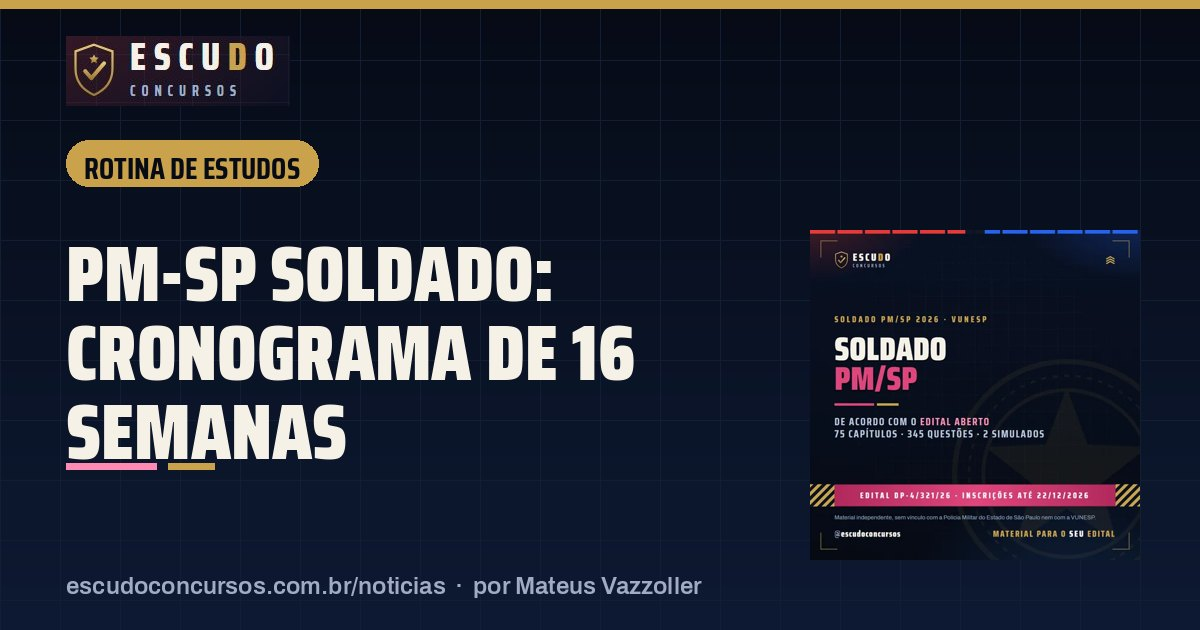
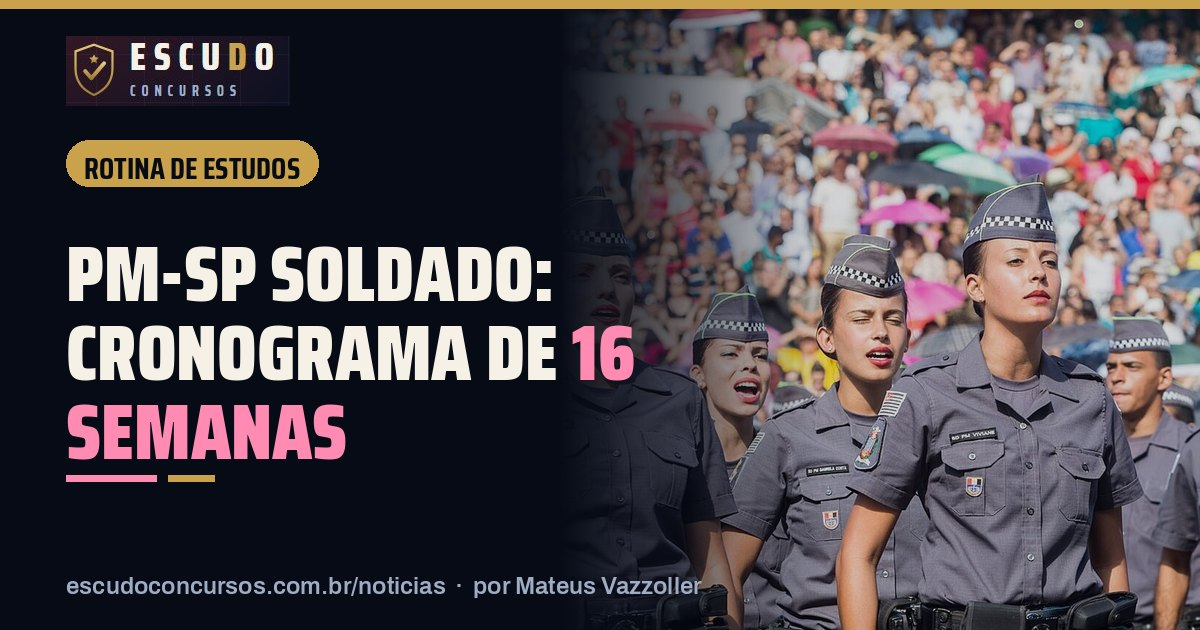
Blog: fotos com licença livre na capa e no texto, com crédito
Claude-Session: https://claude.ai/code/session_01G9HQrGRPnrLsb67KsxRRNz

diff --git a/noticias/pm-sp-soldado-inscricoes-abrem-09-11/index.html b/noticias/pm-sp-soldado-inscricoes-abrem-09-11/index.html
@@ -56,7 +56,9 @@
   .blog-fontes ul{margin:0;padding-left:1.2em}
   .blog-capa{margin:0 0 22px}
   .blog-capa img{width:100%;height:auto;border-radius:12px;display:block}
-  .blog-capa figcaption{font-size:.85rem;color:var(--ink2);margin-top:6px}
+  .blog-capa figcaption,.blog-foto figcaption{font-size:.8rem;color:var(--ink2,#5a6478);margin-top:6px;line-height:1.4}
+  .blog-foto{margin:26px 0}
+  .blog-foto img{width:100%;height:auto;border-radius:10px;display:block}
   .blog-resumo table{min-width:0}
   .blog-resumo th{width:38%}
   .blog-sumario{margin:18px 0;padding:12px 18px;background:#fff;border:1px solid #E6DFCC;border-radius:10px}
@@ -188,7 +190,7 @@
       <nav class="guia-trilha" aria-label="Você está em"><a href="../../">Início</a> <span aria-hidden="true">›</span> <a href="../">Notícias e dicas</a> <span aria-hidden="true">›</span> <a href="../editais/">Notícia</a></nav>
       <h1>PM-SP Soldado 2026: inscrições abrem 09/11 e o prazo da isenção é só até 11/11</h1>
       <p class="guia-data"><span class="blog-selo">Notícia</span>Publicado em 8 de novembro de 2026 · por <a href="../../quem-faz/">Mateus Vazzoller</a>, ESCUDO Concursos</p>
-<figure class="blog-capa"><img src="capa.jpg" alt="Notícia: PM-SP Soldado 2026: inscrições abrem 09/11 e o prazo da isenção é só até 11/11" width="1200" height="630"></figure><p>As inscrições do concurso da Polícia Militar do Estado de São Paulo para <strong>Aluno-Soldado PM</strong> abrem às <strong>10h de segunda-feira, 09/11/2026</strong>, e vão até as <strong>23h59 de 22/12/2026</strong>, só pelo site da Fundação VUNESP. São <strong>2.000 cargos</strong>, com remuneração básica inicial de <strong>R$ 5.482,51</strong>, segundo o Edital nº DP-4/321/26.</p>
+<figure class="blog-capa"><img src="capa.jpg" alt="Notícia: PM-SP Soldado 2026: inscrições abrem 09/11 e o prazo da isenção é só até 11/11" width="1200" height="630"><figcaption>Formatura de soldados da PM-SP no Anhembi, em São Paulo. Foto: Diogo Moreira/Governo do Estado de São Paulo (<a href="https://commons.wikimedia.org/wiki/File:Policiais_Militares_SP.jpg" rel="nofollow noopener" target="_blank">CC BY 2.0, via Wikimedia Commons</a>). Imagem recortada e com texto sobreposto.</figcaption></figure><p>As inscrições do concurso da Polícia Militar do Estado de São Paulo para <strong>Aluno-Soldado PM</strong> abrem às <strong>10h de segunda-feira, 09/11/2026</strong>, e vão até as <strong>23h59 de 22/12/2026</strong>, só pelo site da Fundação VUNESP. São <strong>2.000 cargos</strong>, com remuneração básica inicial de <strong>R$ 5.482,51</strong>, segundo o Edital nº DP-4/321/26.</p>
 <div class="guia-tabela blog-resumo"><table><tbody><tr><th>Cargo</th><td>Aluno-Soldado PM (Quadro de Praças)</td></tr><tr><th>Vagas</th><td>2.000</td></tr><tr><th>Salário inicial</th><td>R$ 5.482,51</td></tr><tr><th>Banca</th><td>Fundação VUNESP</td></tr><tr><th>Escolaridade</th><td>Ensino médio (exigido na posse)</td></tr><tr><th>Inscrições</th><td>09/11 a 22/12/2026, em www.vunesp.com.br</td></tr><tr><th>Isenção ou redução da taxa</th><td>09/11 a 11/11/2026</td></tr><tr><th>Taxa</th><td>R$ 110,00</td></tr><tr><th>Prova (prevista)</th><td>28/02/2027, à tarde</td></tr></tbody></table></div><nav class="blog-sumario" aria-label="Neste texto"><strong>Neste texto</strong><ol><li><a href="#o-prazo-que-vence-primeiro-e-o-da-isencao">O prazo que vence primeiro é o da isenção</a></li><li><a href="#quem-pode-se-inscrever">Quem pode se inscrever</a></li><li><a href="#escolha-do-local-de-prova">Escolha do local de prova</a></li><li><a href="#datas-principais">Datas principais</a></li></ol></nav>
 <h2 id="o-prazo-que-vence-primeiro-e-o-da-isencao">O prazo que vence primeiro é o da isenção</h2>
 <p>O pedido de isenção ou redução da taxa tem janela de apenas três dias: das <strong>14h de 09/11</strong> às <strong>23h59 de 11/11/2026</strong>. O edital prevê:</p>
@@ -197,6 +199,7 @@
 <li><strong>redução de 50%</strong> para estudante com renda inferior a 2 salários mínimos ou desempregado.</li>
 </ul>
 <p>Quem perder essa janela paga a taxa cheia de R$ 110,00. O pagamento vai até o primeiro dia útil seguinte ao fim das inscrições.</p>
+<figure class="blog-foto"><img src="foto-2.jpg" alt="Soldadas e soldados da PM-SP em formatura no Sambódromo do Anhembi" width="1200" height="800" loading="lazy"><figcaption>Soldadas e soldados da PM-SP na formatura no Sambódromo do Anhembi. Foto: Du Amorim/A2 Fotografia/Governo do Estado de São Paulo (<a href="https://commons.wikimedia.org/wiki/File:Mulheres_da_PMESP.jpg" rel="nofollow noopener" target="_blank">CC BY 2.0, via Wikimedia Commons</a>)</figcaption></figure>
 <h2 id="quem-pode-se-inscrever">Quem pode se inscrever</h2>
 <p>O edital pede, na inscrição, nacionalidade brasileira, idade entre 17 e 30 anos (contada no período de inscrição), estatura mínima de 160 cm para homens e 155 cm para mulheres e o pagamento da taxa. Ensino médio completo, CNH de categoria B a E e os demais requisitos são exigidos só na posse.</p>
 <h2 id="escolha-do-local-de-prova">Escolha do local de prova</h2>

diff --git a/noticias/pm-sp-soldado-cronograma-de-estudos-16-semanas/index.html b/noticias/pm-sp-soldado-cronograma-de-estudos-16-semanas/index.html
@@ -56,7 +56,9 @@
   .blog-fontes ul{margin:0;padding-left:1.2em}
   .blog-capa{margin:0 0 22px}
   .blog-capa img{width:100%;height:auto;border-radius:12px;display:block}
-  .blog-capa figcaption{font-size:.85rem;color:var(--ink2);margin-top:6px}
+  .blog-capa figcaption,.blog-foto figcaption{font-size:.8rem;color:var(--ink2,#5a6478);margin-top:6px;line-height:1.4}
+  .blog-foto{margin:26px 0}
+  .blog-foto img{width:100%;height:auto;border-radius:10px;display:block}
   .blog-resumo table{min-width:0}
   .blog-resumo th{width:38%}
   .blog-sumario{margin:18px 0;padding:12px 18px;background:#fff;border:1px solid #E6DFCC;border-radius:10px}
@@ -188,7 +190,7 @@
       <nav class="guia-trilha" aria-label="Você está em"><a href="../../">Início</a> <span aria-hidden="true">›</span> <a href="../">Notícias e dicas</a> <span aria-hidden="true">›</span> <a href="../rotina-de-estudos/">Rotina de estudos</a></nav>
       <h1>Cronograma de estudos para PM-SP Soldado: 16 semanas até a prova de 28/02/2027</h1>
       <p class="guia-data"><span class="blog-selo">Rotina de estudos</span>Publicado em 8 de novembro de 2026 · por <a href="../../quem-faz/">Mateus Vazzoller</a>, ESCUDO Concursos</p>
-<figure class="blog-capa"><img src="capa.jpg" alt="Rotina de estudos: Cronograma de estudos para PM-SP Soldado: 16 semanas até a prova de 28/02/2027" width="1200" height="630"></figure><p>Entre segunda-feira, 09/11/2026, e a prova prevista para <strong>28/02/2027</strong> há <strong>16 semanas</strong>. Este plano reparte 15 horas por semana entre as matérias na proporção das questões do edital e divide o tempo em três fases: base, questões e simulados.</p>
+<figure class="blog-capa"><img src="capa.jpg" alt="Rotina de estudos: Cronograma de estudos para PM-SP Soldado: 16 semanas até a prova de 28/02/2027" width="1200" height="630"><figcaption>Soldadas e soldados da PM-SP na formatura no Sambódromo do Anhembi. Foto: Du Amorim/A2 Fotografia/Governo do Estado de São Paulo (<a href="https://commons.wikimedia.org/wiki/File:Mulheres_da_PMESP.jpg" rel="nofollow noopener" target="_blank">CC BY 2.0, via Wikimedia Commons</a>). Imagem recortada e com texto sobreposto.</figcaption></figure><p>Entre segunda-feira, 09/11/2026, e a prova prevista para <strong>28/02/2027</strong> há <strong>16 semanas</strong>. Este plano reparte 15 horas por semana entre as matérias na proporção das questões do edital e divide o tempo em três fases: base, questões e simulados.</p>
 <div class="guia-tabela blog-resumo"><table><tbody><tr><th>Prova (prevista)</th><td>28/02/2027, à tarde, 5 horas</td></tr><tr><th>Tempo até a prova</th><td>16 semanas a partir de 09/11/2026</td></tr><tr><th>Carga sugerida</th><td>15 horas por semana</td></tr><tr><th>Fases</th><td>Base (semanas 1 a 8), questões (9 a 13), simulados (14 a 16)</td></tr><tr><th>Prova objetiva</th><td>60 questões, mínimo de 30 pontos</td></tr><tr><th>Redação</th><td>Até 30 linhas, 40 pontos, mínimo de 20</td></tr></tbody></table></div><nav class="blog-sumario" aria-label="Neste texto"><strong>Neste texto</strong><ol><li><a href="#de-onde-vem-as-horas">De onde vêm as horas</a></li><li><a href="#fase-1-base-semanas-1-a-8-de-09112026-a-03012027">Fase 1: base (semanas 1 a 8, de 09/11/2026 a 03/01/2027)</a></li><li><a href="#fase-2-questoes-semanas-9-a-13-de-0401-a-07022027">Fase 2: questões (semanas 9 a 13, de 04/01 a 07/02/2027)</a></li><li><a href="#fase-3-simulados-semanas-14-a-16-de-0802-a-28022027">Fase 3: simulados (semanas 14 a 16, de 08/02 a 28/02/2027)</a></li><li><a href="#se-voce-tem-menos-tempo">Se você tem menos tempo</a></li></ol></nav>
 <h2 id="de-onde-vem-as-horas">De onde vêm as horas</h2>
 <p>A prova objetiva tem 60 questões, cada uma valendo 1 ponto, e a redação vale 40 pontos. O tempo semanal segue esse peso:</p>
@@ -239,6 +241,7 @@
 </tbody>
 </table></div>
 <p>Administração Pública ganha meia hora a mais que Informática porque cobra artigo de lei (Constituição Federal, Constituição do Estado, Lei de Acesso à Informação e Decreto estadual nº 68.155/2023), que pede leitura atenta do texto.</p>
+<figure class="blog-foto"><img src="foto-2.jpg" alt="Soldados da PM-SP em formatura no Anhembi, em São Paulo" width="1200" height="800" loading="lazy"><figcaption>Formatura de soldados da PM-SP no Anhembi, em São Paulo. Foto: Diogo Moreira/Governo do Estado de São Paulo (<a href="https://commons.wikimedia.org/wiki/File:Policiais_Militares_SP.jpg" rel="nofollow noopener" target="_blank">CC BY 2.0, via Wikimedia Commons</a>)</figcaption></figure>
 <h2 id="fase-1-base-semanas-1-a-8-de-09112026-a-03012027">Fase 1: base (semanas 1 a 8, de 09/11/2026 a 03/01/2027)</h2>
 <ul>
 <li>Comece por Português e Matemática, que somam 35 das 60 questões e garantem os 30 pontos mínimos da objetiva.</li>

diff --git a/_config/blog.modelo.html b/_config/blog.modelo.html
@@ -54,7 +54,9 @@
   .blog-fontes ul{margin:0;padding-left:1.2em}
   .blog-capa{margin:0 0 22px}
   .blog-capa img{width:100%;height:auto;border-radius:12px;display:block}
-  .blog-capa figcaption{font-size:.85rem;color:var(--ink2);margin-top:6px}
+  .blog-capa figcaption,.blog-foto figcaption{font-size:.8rem;color:var(--ink2,#5a6478);margin-top:6px;line-height:1.4}
+  .blog-foto{margin:26px 0}
+  .blog-foto img{width:100%;height:auto;border-radius:10px;display:block}
   .blog-resumo table{min-width:0}
   .blog-resumo th{width:38%}
   .blog-sumario{margin:18px 0;padding:12px 18px;background:#fff;border:1px solid #E6DFCC;border-radius:10px}

diff --git a/noticias/editais/index.html b/noticias/editais/index.html
@@ -54,7 +54,9 @@
   .blog-fontes ul{margin:0;padding-left:1.2em}
   .blog-capa{margin:0 0 22px}
   .blog-capa img{width:100%;height:auto;border-radius:12px;display:block}
-  .blog-capa figcaption{font-size:.85rem;color:var(--ink2);margin-top:6px}
+  .blog-capa figcaption,.blog-foto figcaption{font-size:.8rem;color:var(--ink2,#5a6478);margin-top:6px;line-height:1.4}
+  .blog-foto{margin:26px 0}
+  .blog-foto img{width:100%;height:auto;border-radius:10px;display:block}
   .blog-resumo table{min-width:0}
   .blog-resumo th{width:38%}
   .blog-sumario{margin:18px 0;padding:12px 18px;background:#fff;border:1px solid #E6DFCC;border-radius:10px}

diff --git a/noticias/index.html b/noticias/index.html
@@ -54,7 +54,9 @@
   .blog-fontes ul{margin:0;padding-left:1.2em}
   .blog-capa{margin:0 0 22px}
   .blog-capa img{width:100%;height:auto;border-radius:12px;display:block}
-  .blog-capa figcaption{font-size:.85rem;color:var(--ink2);margin-top:6px}
+  .blog-capa figcaption,.blog-foto figcaption{font-size:.8rem;color:var(--ink2,#5a6478);margin-top:6px;line-height:1.4}
+  .blog-foto{margin:26px 0}
+  .blog-foto img{width:100%;height:auto;border-radius:10px;display:block}
   .blog-resumo table{min-width:0}
   .blog-resumo th{width:38%}
   .blog-sumario{margin:18px 0;padding:12px 18px;background:#fff;border:1px solid #E6DFCC;border-radius:10px}

diff --git a/noticias/o-que-estudar/index.html b/noticias/o-que-estudar/index.html
@@ -54,7 +54,9 @@
   .blog-fontes ul{margin:0;padding-left:1.2em}
   .blog-capa{margin:0 0 22px}
   .blog-capa img{width:100%;height:auto;border-radius:12px;display:block}
-  .blog-capa figcaption{font-size:.85rem;color:var(--ink2);margin-top:6px}
+  .blog-capa figcaption,.blog-foto figcaption{font-size:.8rem;color:var(--ink2,#5a6478);margin-top:6px;line-height:1.4}
+  .blog-foto{margin:26px 0}
+  .blog-foto img{width:100%;height:auto;border-radius:10px;display:block}
   .blog-resumo table{min-width:0}
   .blog-resumo th{width:38%}
   .blog-sumario{margin:18px 0;padding:12px 18px;background:#fff;border:1px solid #E6DFCC;border-radius:10px}

diff --git a/noticias/rotina-de-estudos/index.html b/noticias/rotina-de-estudos/index.html
@@ -54,7 +54,9 @@
   .blog-fontes ul{margin:0;padding-left:1.2em}
   .blog-capa{margin:0 0 22px}
   .blog-capa img{width:100%;height:auto;border-radius:12px;display:block}
-  .blog-capa figcaption{font-size:.85rem;color:var(--ink2);margin-top:6px}
+  .blog-capa figcaption,.blog-foto figcaption{font-size:.8rem;color:var(--ink2,#5a6478);margin-top:6px;line-height:1.4}
+  .blog-foto{margin:26px 0}
+  .blog-foto img{width:100%;height:auto;border-radius:10px;display:block}
   .blog-resumo table{min-width:0}
   .blog-resumo th{width:38%}
   .blog-sumario{margin:18px 0;padding:12px 18px;background:#fff;border:1px solid #E6DFCC;border-radius:10px}

diff --git a/_config/blog_capa.py b/_config/blog_capa.py
@@ -41,21 +41,48 @@ def quebra(draw, texto, f, largura):
     return linhas
 
 
-def gera(destino, titulo, selo, produto_img=None, destaque=None):
+def fundo_foto(im, foto):
+    """Foto ocupando o lado direito, com degradê navy da esquerda para o texto ficar legível."""
+    f = Image.open(foto).convert("RGB")
+    alvo_w, alvo_h = 700, 630
+    esc = max(alvo_w / f.width, alvo_h / f.height)
+    f = f.resize((int(f.width * esc) + 1, int(f.height * esc) + 1), Image.LANCZOS)
+    x0 = (f.width - alvo_w) // 2
+    f = f.crop((x0, 0, x0 + alvo_w, alvo_h))
+    im.paste(f, (1200 - alvo_w, 0))
+    veu = Image.new("RGBA", (1200, 630))
+    dv = ImageDraw.Draw(veu)
+    for x in range(1200):
+        if x < 560:
+            a = 255
+        elif x < 820:
+            a = int(255 - (x - 560) / 260 * 215)
+        else:
+            a = 40
+        dv.line([(x, 0), (x, 630)], fill=NAVY + (min(a, 255),))
+    im.paste(veu, (0, 0), veu)
+
+
+def gera(destino, titulo, selo, produto_img=None, destaque=None, foto=None):
     im = Image.new("RGB", (1200, 630), NAVY)
     d = ImageDraw.Draw(im)
-    # fundo com leve degradê e grade
-    for y in range(630):
+    if foto and pathlib.Path(foto).exists():
+        fundo_foto(im, foto)
+        d = ImageDraw.Draw(im)
+        produto_img = None
+    largura_foto = 640 if foto and pathlib.Path(foto).exists() else None
+    # fundo com leve degradê e grade (só sem foto)
+    for y in (range(630) if not foto else []):
         t = y / 630
         d.line([(0, y), (1200, y)], fill=tuple(int(NAVY[i] + (NAVY2[i] - NAVY[i]) * t) for i in range(3)))
-    for x in range(0, 1200, 60):
+    for x in (range(0, 1200, 60) if not foto else []):
         d.line([(x, 0), (x, 630)], fill=(18, 30, 52))
-    for y in range(0, 630, 60):
+    for y in (range(0, 630, 60) if not foto else []):
         d.line([(0, y), (1200, y)], fill=(18, 30, 52))
     d.rectangle([0, 0, 1200, 8], fill=OURO)
     logo = Image.open(RAIZ / "_config" / "blog-logo.png").convert("RGB")
     im.paste(logo, (66, 36))
-    largura = 1068
+    largura = largura_foto or 1068
     if produto_img and pathlib.Path(produto_img).exists():
         p = Image.open(produto_img).convert("RGBA")
         p.thumbnail((330, 440))
@@ -75,11 +102,14 @@ def gera(destino, titulo, selo, produto_img=None, destaque=None):
             break
     y = 212
     for i, l in enumerate(linhas):
-        cor = ROSA if destaque and destaque.upper() in l else CREME
-        d.text((66, y), l, font=ft, fill=cor)
+        x = 66
+        marcadas = set(destaque.upper().split()) if destaque else set()
+        for pal in l.split():
+            d.text((x, y), pal, font=ft, fill=ROSA if pal.strip(":,.") in marcadas else CREME)
+            x += d.textlength(pal + " ", font=ft)
         y += int(tam * 1.02)
-    d.rectangle([66, y + 14, 156, y + 20], fill=ROSA)
-    d.rectangle([168, y + 14, 214, y + 20], fill=OURO)
+    d.rectangle([66, y + 26, 156, y + 32], fill=ROSA)
+    d.rectangle([168, y + 26, 214, y + 32], fill=OURO)
     fr = fonte("Archivo-SemiBold", 24)
     d.text((66, 572), "escudoconcursos.com.br/noticias  ·  por Mateus Vazzoller", font=fr, fill=CINZA)
     destino = pathlib.Path(destino)

diff --git a/_config/blog.py b/_config/blog.py
@@ -160,6 +160,19 @@ def caixa_curso(p, slug):
         html.escape(p.get("titulo", "")), html.escape(itens), html.escape(oferta), p.get("link", p["id"] + "/"), slug)
 
 
+def credito_html(f, adaptada):
+    """Crédito exigido pela licença livre (CC BY): autor, licença, link e aviso de adaptação."""
+    txt = "Foto: %s" % html.escape(f.get("credito", ""))
+    if f.get("url"):
+        txt += ' (<a href="%s" rel="nofollow noopener" target="_blank">%s, via Wikimedia Commons</a>)' % (
+            html.escape(f["url"], quote=True), html.escape(f.get("licenca", "licença livre")))
+    if f.get("legenda"):
+        txt = html.escape(f["legenda"]) + ". " + txt
+    if adaptada:
+        txt += ". Imagem recortada e com texto sobreposto."
+    return "<figcaption>%s</figcaption>" % txt
+
+
 def fontes_html(fontes):
     if not fontes:
         return ""
@@ -199,9 +212,27 @@ def monta_post(meta, corpo):
     # capa
     from blog_capa import gera
     img_prod = (RAIZ / p["imagem"]) if p and p.get("imagem") else None
-    gera(SAIDA / slug / "capa.jpg", meta.get("capa_titulo") or h1, selo, img_prod, meta.get("capa_destaque"))
+    fotos = meta.get("fotos") or []
+    foto_capa = (RAIZ / "_config" / "blog" / "fotos" / fotos[0]["arquivo"]) if fotos else None
+    gera(SAIDA / slug / "capa.jpg", meta.get("capa_titulo") or h1, selo, img_prod, meta.get("capa_destaque"), foto_capa)
     capa_alt = "%s: %s" % (selo, h1)
-    capa = '<figure class="blog-capa"><img src="capa.jpg" alt="%s" width="1200" height="630"></figure>' % html.escape(capa_alt, quote=True)
+    capa = '<figure class="blog-capa"><img src="capa.jpg" alt="%s" width="1200" height="630">%s</figure>' % (
+        html.escape(capa_alt, quote=True), credito_html(fotos[0], True) if fotos else "")
+    # demais fotos: antes do 2º, 3º... H2
+    for n, f in enumerate(fotos[1:], start=2):
+        src = RAIZ / "_config" / "blog" / "fotos" / f["arquivo"]
+        if not src.exists():
+            continue
+        from PIL import Image
+        im = Image.open(src).convert("RGB")
+        im.thumbnail((1200, 1200))
+        nome = "foto-%d.jpg" % n
+        im.save(SAIDA / slug / nome, "JPEG", quality=82, optimize=True, progressive=True)
+        fig = '<figure class="blog-foto"><img src="%s" alt="%s" width="%d" height="%d" loading="lazy">%s</figure>\n' % (
+            nome, html.escape(f.get("alt", ""), quote=True), im.width, im.height, credito_html(f, False))
+        pos = [m.start() for m in re.finditer(r"<h2", artigo)]
+        if len(pos) >= n:
+            artigo = artigo[:pos[n - 1]] + fig + artigo[pos[n - 1]:]
     # aviso de prazo vencido
     aviso = ""
     va = str(meta.get("valido_ate", ""))

diff --git a/_config/ROTINA-BLOG.md b/_config/ROTINA-BLOG.md
@@ -31,6 +31,7 @@ Responder e escrever sempre em português do Brasil, sem travessão. Horários s
    - Fechar com "## Perguntas frequentes" (3 perguntas em H3, resposta de 1 a 3 frases): vira FAQPage no schema.
    - Capa: `capa_titulo` até ~45 caracteres e `capa_destaque` com o trecho que fica em rosa (data, número).
    - `valido_ate` = data em que o post perde a validade (fim de inscrição, prova): depois dela a página mostra aviso de prazo encerrado.
+   - Fotos (campo `fotos`, lista JSON; a 1ª vai para a capa, as outras antes do 2º, 3º... H2): só de licença livre do Wikimedia Commons (CC BY, CC BY-SA, CC0 ou domínio público), de preferência as do Governo do estado vindas do Flickr oficial. Baixar a miniatura de 1280px de `upload.wikimedia.org` com User-Agent `EscudoBlogBot/1.0 (https://escudoconcursos.com.br)` e calma entre pedidos (o Commons devolve 429), salvar em `_config/blog/fotos/` e preencher arquivo, credito, licenca, url (página do arquivo no Commons), alt e legenda (sem números, que o conferidor não cobre). Nunca foto de portal, banca, Google Imagens ou rede social; nunca político em destaque, protesto, ocorrência ou pessoa em situação constrangedora: só formatura, desfile, viatura, treinamento. Sem foto boa = post sem foto (a capa sai no padrão).
    - Link do documento oficial sempre em `fontes`. No máximo 2 chamadas para o curso (a caixa automática e uma no texto).
    - Sem promessa de aprovação, sem "imperdível", sem emoji, sem afirmação genérica sem fonte.
 6. Revisão: reler o post contra a fonte como um revisor exigente (afirmação sem base, data errada, frase parecida com portal, português). Corrigir.

diff --git a/_config/blog/2026-11-08-pmesp-inscricoes-abrem-09-11.md b/_config/blog/2026-11-08-pmesp-inscricoes-abrem-09-11.md
@@ -9,6 +9,7 @@ atualizado_em: 2026-11-08
 curso_id: pmesp-soldado-2026
 guia: concurso-pm-sp
 capa_titulo: "PM-SP Soldado: inscrições abrem 09/11"
+fotos: [{"arquivo": "pmesp-formatura-soldados-2014.jpg", "credito": "Diogo Moreira/Governo do Estado de São Paulo", "licenca": "CC BY 2.0", "url": "https://commons.wikimedia.org/wiki/File:Policiais_Militares_SP.jpg", "alt": "Soldados da PM-SP em formatura no Anhembi, em São Paulo", "legenda": "Formatura de soldados da PM-SP no Anhembi, em São Paulo"}, {"arquivo": "pmesp-formatura-soldados-2015.jpg", "credito": "Du Amorim/A2 Fotografia/Governo do Estado de São Paulo", "licenca": "CC BY 2.0", "url": "https://commons.wikimedia.org/wiki/File:Mulheres_da_PMESP.jpg", "alt": "Soldadas e soldados da PM-SP em formatura no Sambódromo do Anhembi", "legenda": "Soldadas e soldados da PM-SP na formatura no Sambódromo do Anhembi"}]
 capa_destaque: "09/11"
 valido_ate: 2026-12-22
 resumo: [["Cargo", "Aluno-Soldado PM (Quadro de Praças)"], ["Vagas", "2.000"], ["Salário inicial", "R$ 5.482,51"], ["Banca", "Fundação VUNESP"], ["Escolaridade", "Ensino médio (exigido na posse)"], ["Inscrições", "09/11 a 22/12/2026, em www.vunesp.com.br"], ["Isenção ou redução da taxa", "09/11 a 11/11/2026"], ["Taxa", "R$ 110,00"], ["Prova (prevista)", "28/02/2027, à tarde"]]

diff --git a/_config/blog/2026-11-08-pmesp-cronograma-16-semanas.md b/_config/blog/2026-11-08-pmesp-cronograma-16-semanas.md
@@ -9,6 +9,7 @@ atualizado_em: 2026-11-08
 curso_id: pmesp-soldado-2026
 guia: concurso-pm-sp
 capa_titulo: "PM-SP Soldado: cronograma de 16 semanas"
+fotos: [{"arquivo": "pmesp-formatura-soldados-2015.jpg", "credito": "Du Amorim/A2 Fotografia/Governo do Estado de São Paulo", "licenca": "CC BY 2.0", "url": "https://commons.wikimedia.org/wiki/File:Mulheres_da_PMESP.jpg", "alt": "Soldadas e soldados da PM-SP em formatura no Sambódromo do Anhembi", "legenda": "Soldadas e soldados da PM-SP na formatura no Sambódromo do Anhembi"}, {"arquivo": "pmesp-formatura-soldados-2014.jpg", "credito": "Diogo Moreira/Governo do Estado de São Paulo", "licenca": "CC BY 2.0", "url": "https://commons.wikimedia.org/wiki/File:Policiais_Militares_SP.jpg", "alt": "Soldados da PM-SP em formatura no Anhembi, em São Paulo", "legenda": "Formatura de soldados da PM-SP no Anhembi, em São Paulo"}]
 capa_destaque: "16 semanas"
 valido_ate: 2027-02-28
 resumo: [["Prova (prevista)", "28/02/2027, à tarde, 5 horas"], ["Tempo até a prova", "16 semanas a partir de 09/11/2026"], ["Carga sugerida", "15 horas por semana"], ["Fases", "Base (semanas 1 a 8), questões (9 a 13), simulados (14 a 16)"], ["Prova objetiva", "60 questões, mínimo de 30 pontos"], ["Redação", "Até 30 linhas, 40 pontos, mínimo de 20"]]
